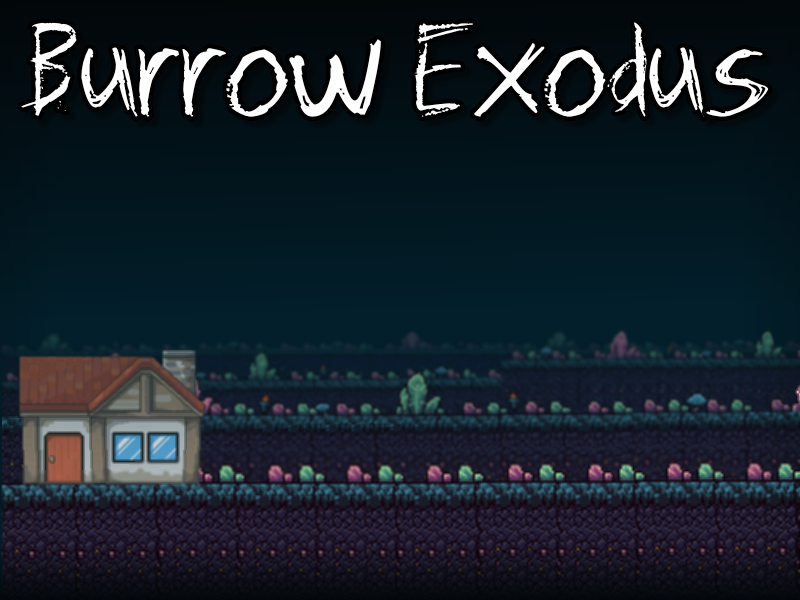
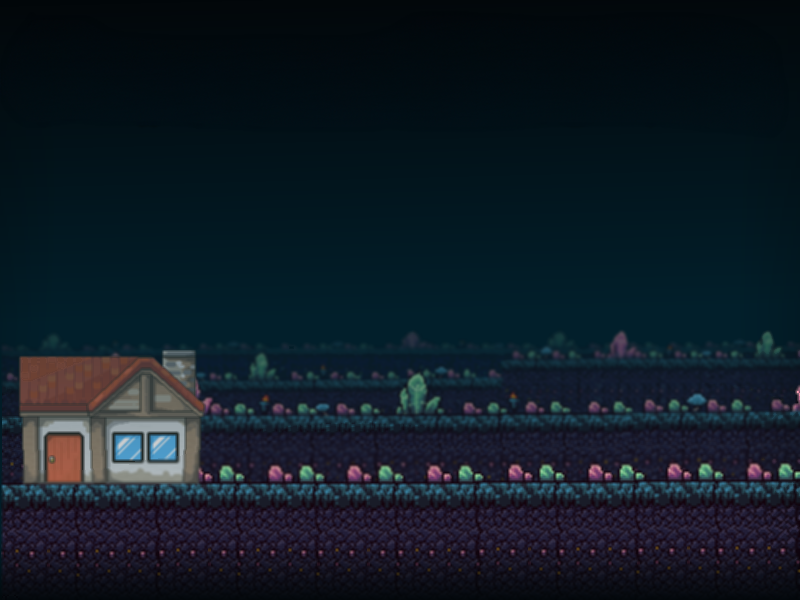
eekassets p1

Changed region(s): [[0.0312, 0.03, 0.5938, 0.21], [0.5938, 0.03, 0.9688, 0.21]]

diff --git a/game/game/MyGame.cpp b/game/game/MyGame.cpp
@@ -20,6 +20,8 @@ CMyGame::~CMyGame(void)
 void CMyGame::OnUpdate()
 {
 	Uint32 t = GetTime();
+	if (IsMenuMode())return;
+	player.Update(t);
 }
 
 void CMyGame::OnDraw(CGraphics* g)
@@ -36,15 +38,12 @@ void CMyGame::OnDraw(CGraphics* g)
 			// draw main menu
 			startButton.Draw(g);
 			optionsButton.Draw(g);
+			titleText.Draw(g);
 		}
 	}
 
 	player.Draw(g);
-	for (CSprite* s : solidObstcles)
-	{
-		s->Draw(g);
-	}
-	for (CSprite* s : deadlyObstcles)
+	for (CSprite* s : tiles)
 	{
 		s->Draw(g);
 	}
@@ -69,14 +68,38 @@ void CMyGame::OnDraw(CGraphics* g)
 // one time initialisation
 void CMyGame::OnInitialize()
 {
+	// main menu and stuff
 	mainMenuBG.SetImageFromFile("MainMenu.png");
 	mainMenuBG.SetPosition(400, 300);
+	titleText.SetImageFromFile("TitleText.png");
+	titleText.SetPosition(400, 500);
+	optionsButton.SetSize(700, 150);
 	startButton.SetImageFromFile("MainMenuClick.png");
 	startButton.SetPosition(400, 100);
 	startButton.SetSize(300, 50);
 	optionsButton.SetImageFromFile("OptionsClick.png");
 	optionsButton.SetPosition(400, 50);
 	optionsButton.SetSize(200, 25);
+
+	// players animations
+	player.LoadAnimation("PlayerIdle.png", "idle", CSprite::Sheet(4, 1).Row(0).From(0).To(4), CColor::Black());
+	player.LoadAnimation("PlayerWalk.png", "walk", CSprite::Sheet(6, 1).Row(0).From(0).To(6), CColor::Black());
+	player.LoadAnimation("PlayerRun.png", "run", CSprite::Sheet(6, 1).Row(0).From(0).To(6), CColor::Black());
+	player.LoadAnimation("PlayerJump.png", "jump", CSprite::Sheet(3, 1).Row(0).From(0).To(3), CColor::Black());
+	player.LoadAnimation("PlayerAttack.png", "attack", CSprite::Sheet(3, 1).Row(0).From(0).To(3), CColor::Black());
+	player.SetAnimation("idle");
+	player.SetPos(400, 300);
+
+	// Level design/gameplay. This is where you work Carla
+	// if you look in the h file you will see we have pointer lists, if an object is solid it needs to also
+	// go in the solidObstcles list, if it is deadly it needs to go in the deadlyObstcles list
+	// all objects go in tiles though
+
+	CSprite* b = new CSprite(CRectangle(100, 100, 100, 100), " ", CColor::Black(), GetTime());
+	b->SetSize(b->GetSize() * 3);
+	tiles.push_back(b);
+	solidObstcles.push_back(b);
+
 }
 
 // called when a new game is requested (e.g. when F2 pressed)
@@ -118,12 +141,10 @@ void CMyGame::OnKeyDown(SDLKey sym, SDLMod mod, Uint16 unicode)
 	if (sym == SDLK_F2)
 		NewGame();
 	if (sym == SDLK_ESCAPE) {
-		mainMenuBG.SetImageFromFile("MainMenu.png");
 		options = false;
 		if (IsGameMode())PauseGame();
 	}
 	if (sym == SDLK_o) {
-		mainMenuBG.SetImageFromFile("OptionsMainMenu.png");
 		options = true;
 	}
 	if (sym == SDLK_SPACE) {

diff --git a/game/game/MyGame.h b/game/game/MyGame.h
@@ -11,16 +11,26 @@ private:
 
 	// game objects
 	CSprite player;
-	CSpriteVector solidObstcles;
-	CSpriteVector deadlyObstcles;
+	CSpriteVector tiles;
 	CSpriteVector bats;
 	CSpriteVector sandWorms;
+
+	// bulk operations
+	std::vector<CSprite*> solidObstcles;
+	std::vector<CSprite*> deadlyObstcles;
+	std::vector<CSprite*> deco;
+
+	// backgrounds
+	CSprite cutScreenBG;
+	CSprite closeBG;
+	CSprite farBG;
 
 	// ui in game
 	CSprite lives;
 
 	// menu
 	CSprite mainMenuBG;
+	CSprite titleText;
 	CSprite startButton;
 	CSprite optionsButton;
 	CSprite muteSoundButton;
